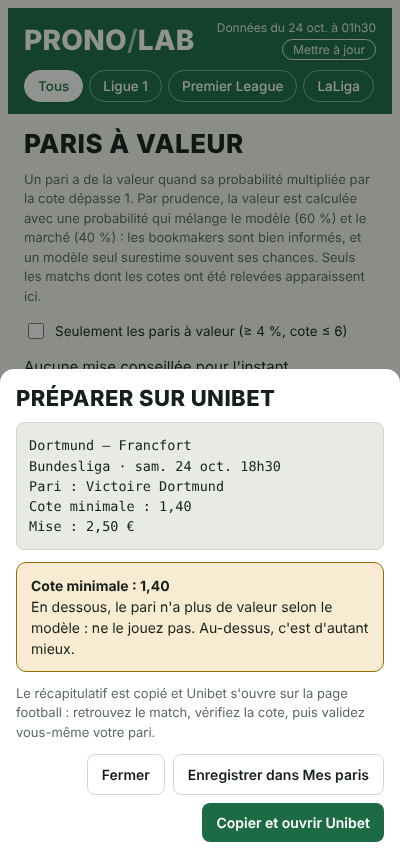
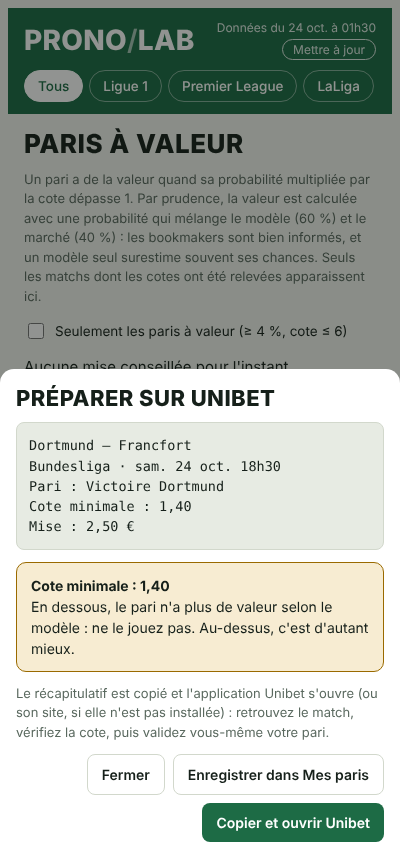
Ouvrir directement l'application du bookmaker installée (sinon le site)
Claude-Session: https://claude.ai/code/session_01MQ8HS3JA5C3ApubduFf8tp

Changed region(s): [[0.03, 0.786, 0.93, 0.8767]]

diff --git a/app.html b/app.html
@@ -682,17 +682,19 @@ function marketProbs(o){
 function settings(){ return Object.assign({ bank:100, week:30, method:"kelly", max:3, expo:15, book:"unibet" }, LS.get("pl_settings", {})); }
 /* Bookmaker de l'utilisateur : l'application prépare le pari, l'utilisateur le valide lui-même chez le bookmaker. */
 const BOOKS = {
-  unibet:  ["Unibet", "https://www.unibet.fr/sport/football"],
-  winamax: ["Winamax", "https://www.winamax.fr/paris-sportifs/sports/1"],
-  betclic: ["Betclic", "https://www.betclic.fr/football-s1"],
-  parions: ["Parions Sport", "https://www.enligne.parionssport.fdj.fr/paris-football"],
-  pmu:     ["PMU", "https://paris-sportifs.pmu.fr/pari/sport/25/football"],
+  // [nom, page football du site, mot-clé pour retrouver l'application installée]
+  unibet:  ["Unibet", "https://www.unibet.fr/sport/football", "unibet"],
+  winamax: ["Winamax", "https://www.winamax.fr/paris-sportifs/sports/1", "winamax"],
+  betclic: ["Betclic", "https://www.betclic.fr/football-s1", "betclic"],
+  parions: ["Parions Sport", "https://www.enligne.parionssport.fdj.fr/paris-football", "parions"],
+  pmu:     ["PMU", "https://paris-sportifs.pmu.fr/pari/sport/25/football", "pmu"],
 };
 const book = () => BOOKS[settings().book] || BOOKS.unibet;
 // cote en dessous de laquelle le pari n'a plus de valeur (même seuil que l'onglet Valeur)
 const minOdds = (p, mp) => { const q = prudent(p, mp); return q > 0 ? (1 + VALUE_MIN) / q : null; };
 function copyText(t){
   let ok = false;
+  try { if (window.ProNoLab && window.ProNoLab.copy(t)) return true; } catch {}
   try { const ta = document.createElement("textarea"); ta.value = t; ta.setAttribute("readonly", ""); ta.style.position = "fixed"; ta.style.opacity = "0"; document.body.appendChild(ta); ta.select(); ok = document.execCommand("copy"); ta.remove(); } catch {}
   try { if (navigator.clipboard) navigator.clipboard.writeText(t).catch(() => {}); ok = true; } catch {}
   return ok;
@@ -717,7 +719,7 @@ function openBookSheet(pre){
     <h2 style="font-size:22px">Préparer sur ${esc(bn)}</h2>
     <pre style="margin:0;white-space:pre-wrap;background:var(--surface-2);border:1px solid var(--line);border-radius:8px;padding:12px;font-family:var(--font-data);font-size:13.5px">${esc(txt)}</pre>
     ${!pre.odds && mo ? `<div class="alert warn"><div><strong>Cote minimale : ${fx(mo)}</strong>En dessous, le pari n'a plus de valeur selon le modèle : ne le jouez pas. Au-dessus, c'est d'autant mieux.</div></div>` : ""}
-    <p class="hint">Le récapitulatif est copié et ${esc(bn)} s'ouvre sur la page football : retrouvez le match, vérifiez la cote, puis validez vous-même votre pari.</p>
+    <p class="hint">Le récapitulatif est copié et l'application ${esc(bn)} s'ouvre (ou son site, si elle n'est pas installée) : retrouvez le match, vérifiez la cote, puis validez vous-même votre pari.</p>
     <div class="row" style="justify-content:flex-end">
       <button type="button" class="btn ghost" id="bkClose">Fermer</button>
       ${pre.recorded ? "" : `<button type="button" class="btn ghost" id="bkRecord">Enregistrer dans Mes paris</button>`}
@@ -726,7 +728,15 @@ function openBookSheet(pre){
   const close = () => { $("sheetHost").innerHTML = ""; };
   $("bkClose").onclick = close;
   $("sheetBg").addEventListener("click", e => { if (e.target.id === "sheetBg") close(); });
-  $("bkGo").addEventListener("click", () => { copyText(txt); toast(`Récapitulatif copié · ouverture de ${bn}`); });
+  $("bkGo").addEventListener("click", e => {
+    copyText(txt);
+    // Dans l'application Android : ouvrir directement l'application du bookmaker si elle est installée
+    if (window.ProNoLab && window.ProNoLab.openApp){
+      e.preventDefault();
+      let how = "web"; try { how = window.ProNoLab.openApp(book()[2], bu); } catch {}
+      toast(how === "app" ? `Récapitulatif copié · ouverture de l'application ${bn}` : `Récapitulatif copié · application ${bn} introuvable, ouverture du site`);
+    } else toast(`Récapitulatif copié · ouverture de ${bn}`);
+  });
   if ($("bkRecord")) $("bkRecord").onclick = () => openBetSheet({ lg: pre.lg, d: fixt ? fixt.d : pre.d, h: pre.h, a: pre.a, mk: pre.mk });
 }
 const MAX_ODDS = 6, MIN_P = 0.2, VALUE_MIN = 0.04, STALE_H = 48;

diff --git a/android/app/src/main/java/fr/pronolab/app/MainActivity.java b/android/app/src/main/java/fr/pronolab/app/MainActivity.java
@@ -1,7 +1,15 @@
 package fr.pronolab.app;
 
 import android.annotation.SuppressLint;
+import android.content.ClipData;
+import android.content.ClipboardManager;
+import android.content.Context;
 import android.content.Intent;
+import android.content.pm.PackageManager;
+import android.content.pm.ResolveInfo;
+import android.webkit.JavascriptInterface;
+import java.util.List;
+import java.util.Locale;
 import android.net.Uri;
 import android.os.Bundle;
 import android.webkit.WebResourceRequest;
@@ -44,6 +52,9 @@ public class MainActivity extends AppCompatActivity {
         s.setCacheMode(WebSettings.LOAD_DEFAULT);
         s.setTextZoom(100);
 
+        // Pont réservé à la page embarquée : ouvrir l'application du bookmaker, copier un texte.
+        web.addJavascriptInterface(new Bridge(), "ProNoLab");
+
         web.setWebViewClient(new WebViewClient() {
             @Override
             public WebResourceResponse shouldInterceptRequest(WebView view, @NonNull WebResourceRequest request) {
@@ -65,6 +76,47 @@ public class MainActivity extends AppCompatActivity {
             web.restoreState(savedInstanceState);
         } else {
             web.loadUrl("https://" + HOST + "/assets/index.html");
+        }
+    }
+
+    /** Fonctions appelées depuis la page (window.ProNoLab). */
+    private class Bridge {
+        /** Ouvre l'application installée dont le nom ou l'identifiant contient {@code keyword} ; sinon ouvre {@code fallbackUrl}. Renvoie "app" ou "web". */
+        @JavascriptInterface
+        public String openApp(String keyword, String fallbackUrl) {
+            String k = keyword == null ? "" : keyword.toLowerCase(Locale.ROOT);
+            PackageManager pm = getPackageManager();
+            Intent main = new Intent(Intent.ACTION_MAIN).addCategory(Intent.CATEGORY_LAUNCHER);
+            List<ResolveInfo> apps = pm.queryIntentActivities(main, 0);
+            for (ResolveInfo ri : apps) {
+                String pkg = ri.activityInfo.packageName.toLowerCase(Locale.ROOT);
+                String label = String.valueOf(ri.loadLabel(pm)).toLowerCase(Locale.ROOT);
+                if (!k.isEmpty() && (pkg.contains(k) || label.contains(k))) {
+                    Intent launch = pm.getLaunchIntentForPackage(ri.activityInfo.packageName);
+                    if (launch != null) {
+                        launch.addFlags(Intent.FLAG_ACTIVITY_NEW_TASK);
+                        runOnUiThread(() -> startActivity(launch));
+                        return "app";
+                    }
+                }
+            }
+            if (fallbackUrl != null && fallbackUrl.startsWith("https://")) {
+                runOnUiThread(() -> {
+                    try { startActivity(new Intent(Intent.ACTION_VIEW, Uri.parse(fallbackUrl))); } catch (Exception ignored) { }
+                });
+            }
+            return "web";
+        }
+
+        @JavascriptInterface
+        public boolean copy(String text) {
+            try {
+                ClipboardManager cm = (ClipboardManager) getSystemService(Context.CLIPBOARD_SERVICE);
+                cm.setPrimaryClip(ClipData.newPlainText("Prono Lab", text));
+                return true;
+            } catch (Exception e) {
+                return false;
+            }
         }
     }
 
